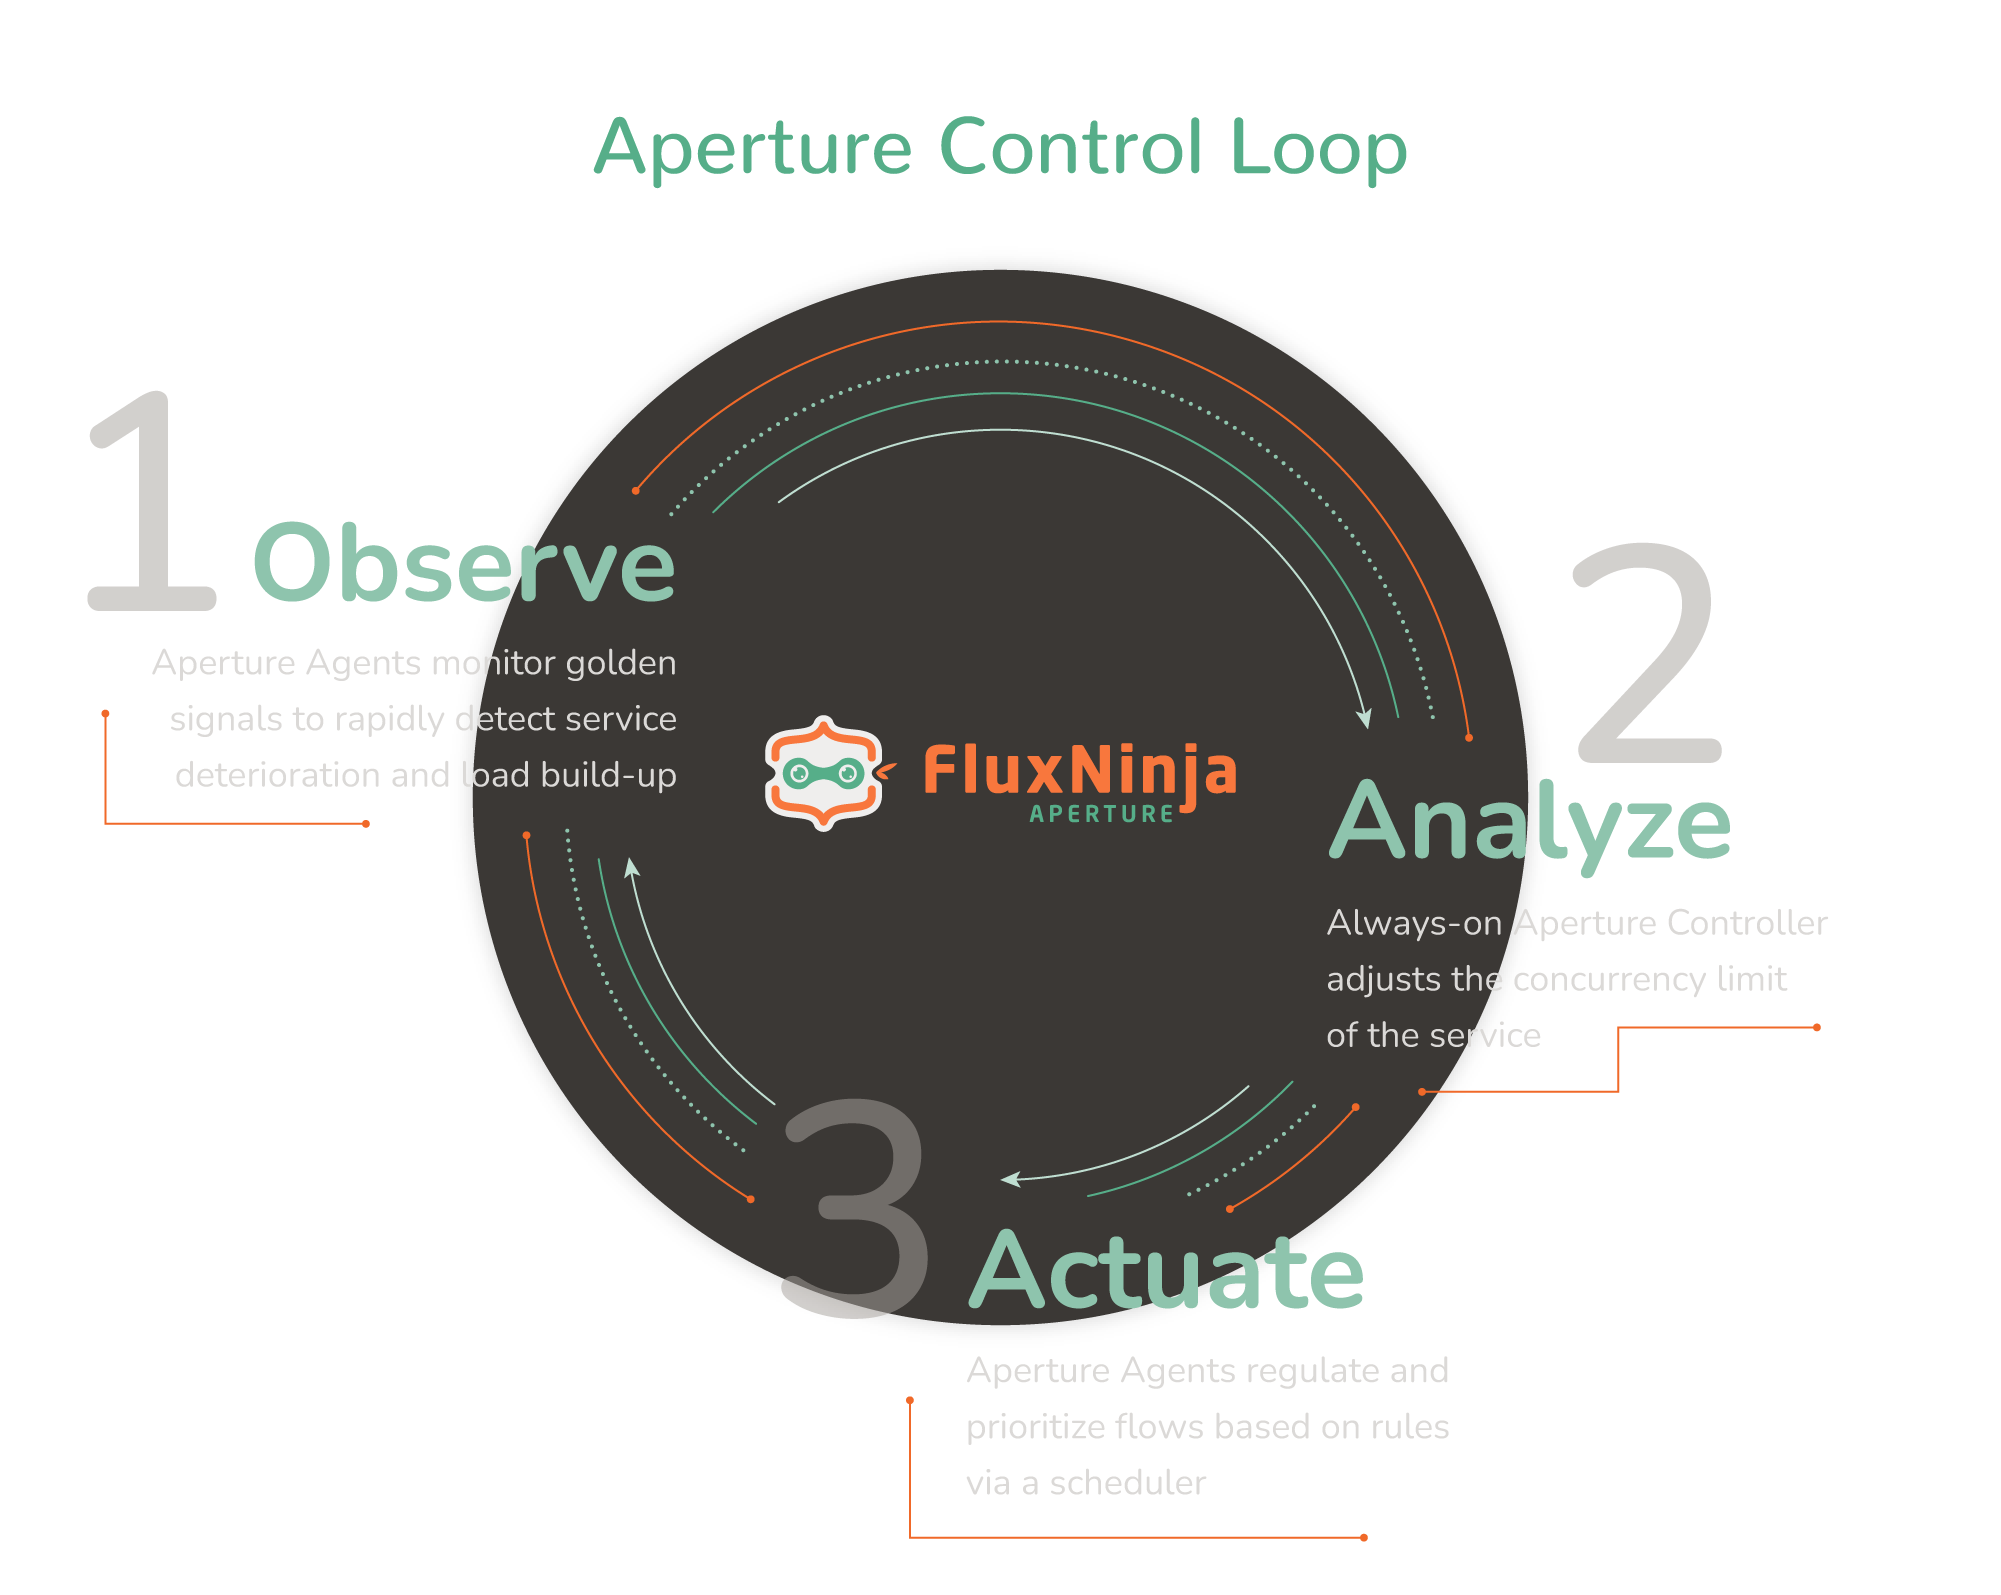
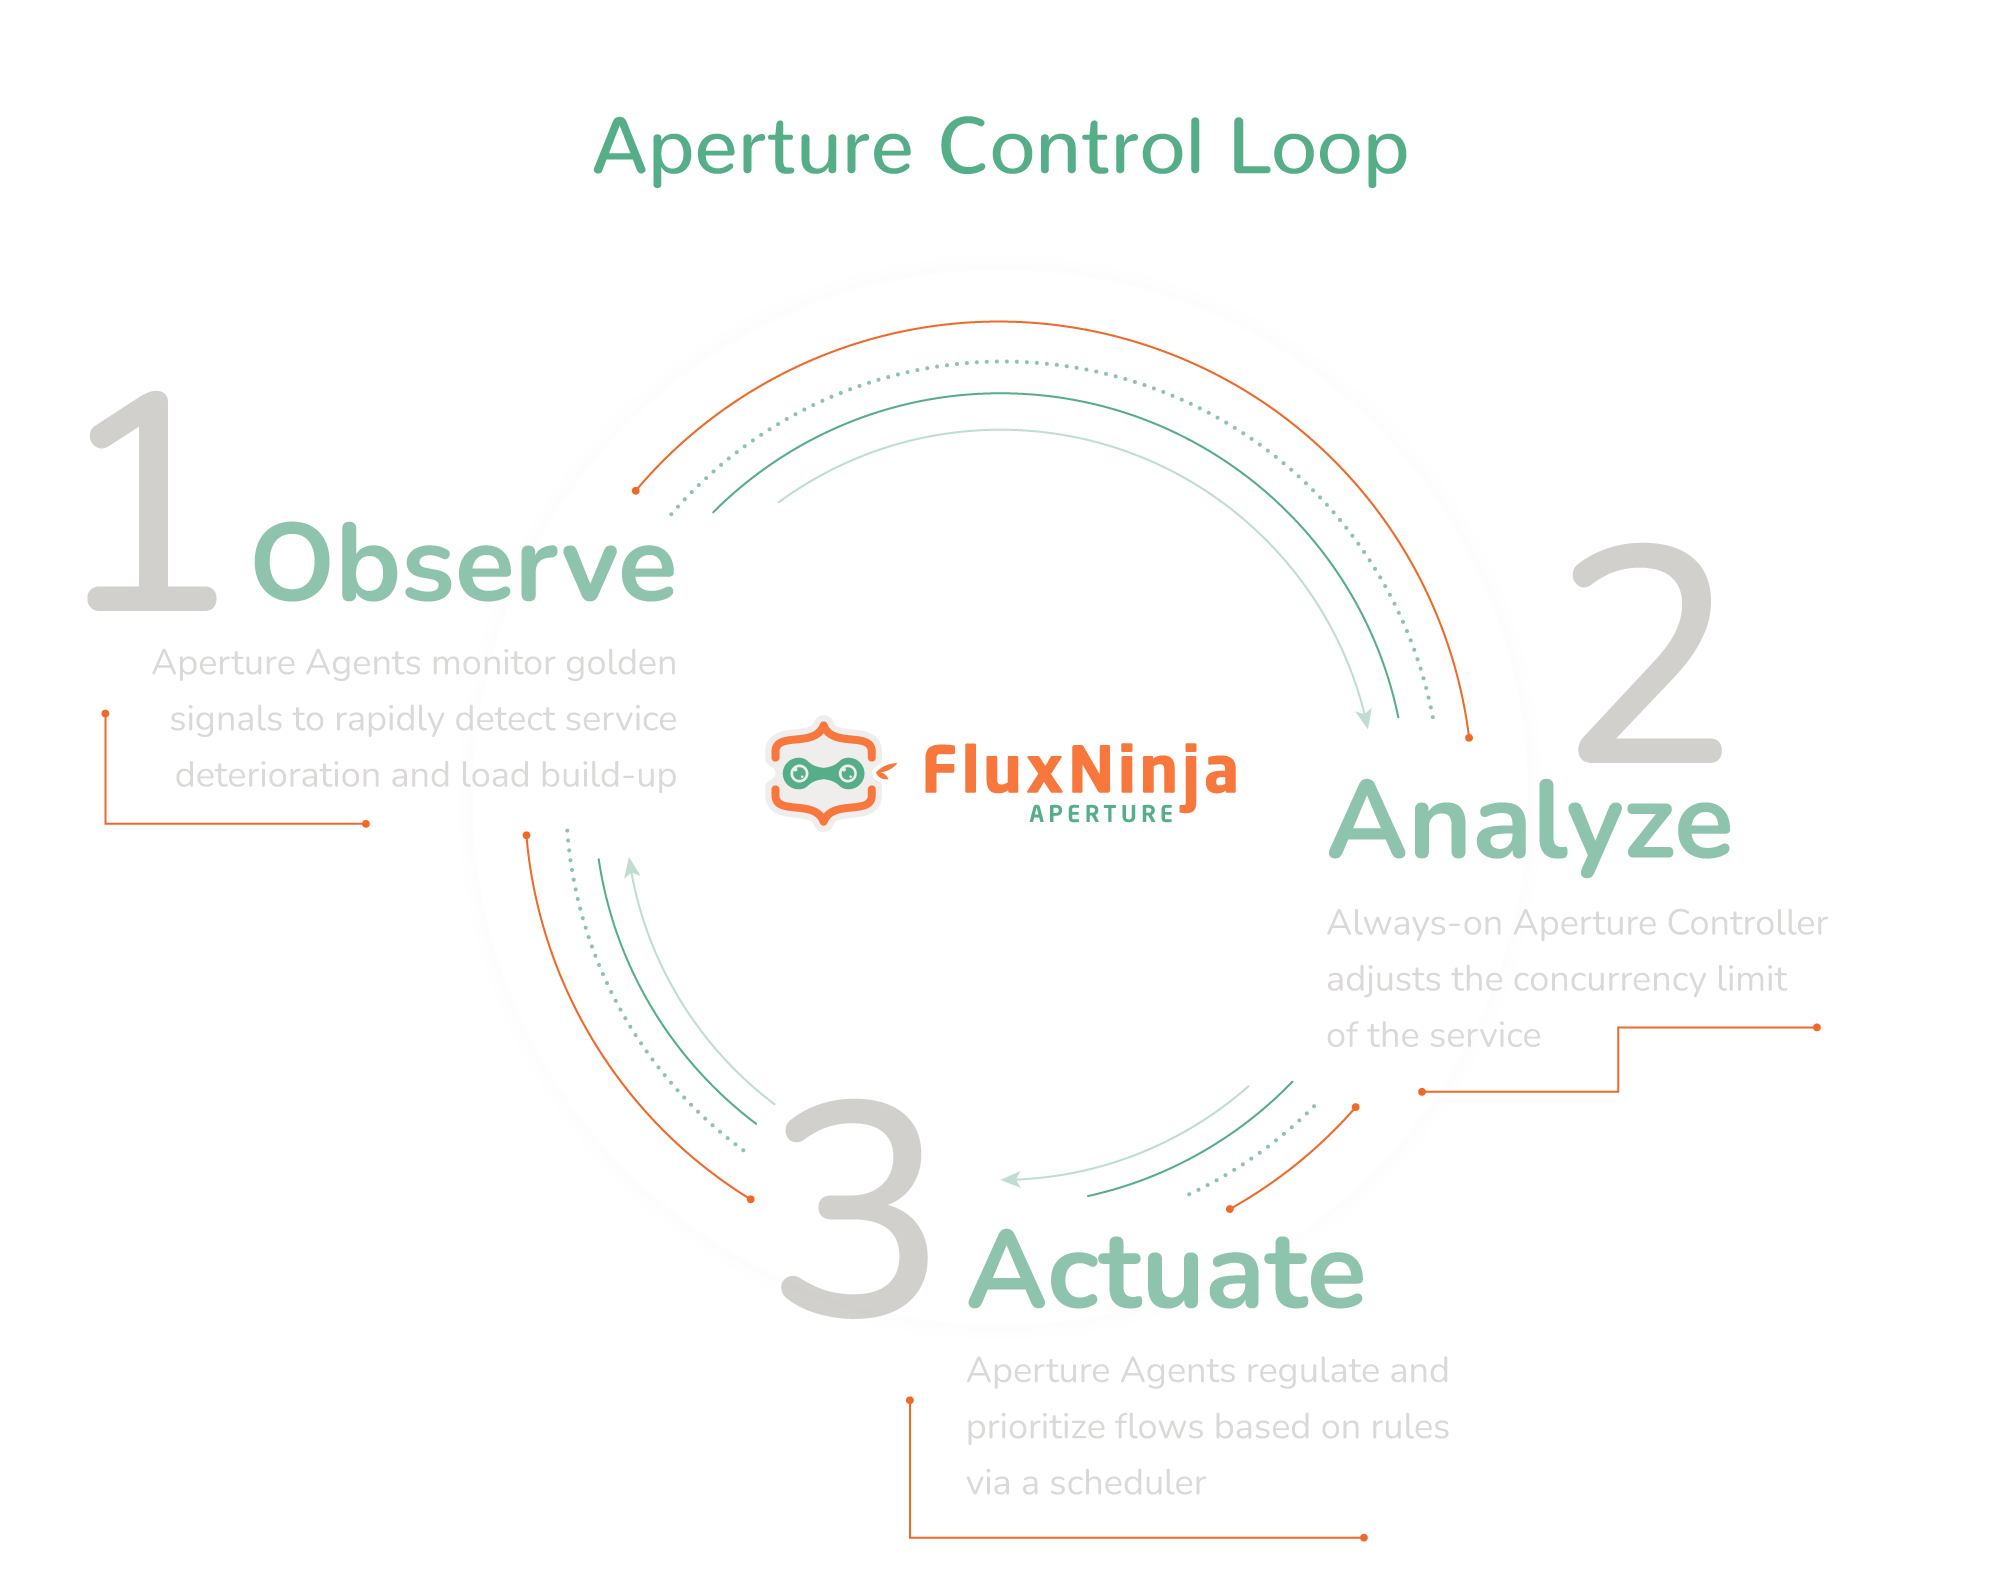
Link to official docs in README.md (#339)
* Link to official docs in README.md

Closes: GH-264

* Use different oaa image based on theme

Changed region(s): [[0.2169, 0.1536, 0.7746, 0.8295]]

diff --git a/README.md b/README.md
@@ -25,11 +25,13 @@ Aperture enables flow control through observing, analyzing, and actuating,
 facilitated by agents and a controller.
 
 <p align="center">
-  <img src="docs/content/assets/img/oaalight.png" alt="Observe. Analyze. Actuate." width="100%">
+  <picture>
+    <source media="(prefers-color-scheme: dark)" srcset="./docs/content/assets/img/oaadark.png">
+    <img alt="Observe. Analyze. Actuate." src="./docs/content/assets/img/oaalight.png">
+  </picture>
 </p>
 
-For more detailed description, refer to
-[the docs](docs/content/introduction.md).
+For more detailed description, refer to [the docs](https://docs.fluxninja.com/).
 
 ## Playground
 
@@ -81,4 +83,4 @@ After your first PR is created you would be asked to sign our
 
 For better understanding of Aperture, refer to the following resources.
 
-- [Documentation](docs/content/introduction.md)
+- [Documentation](https://docs.fluxninja.com/)
